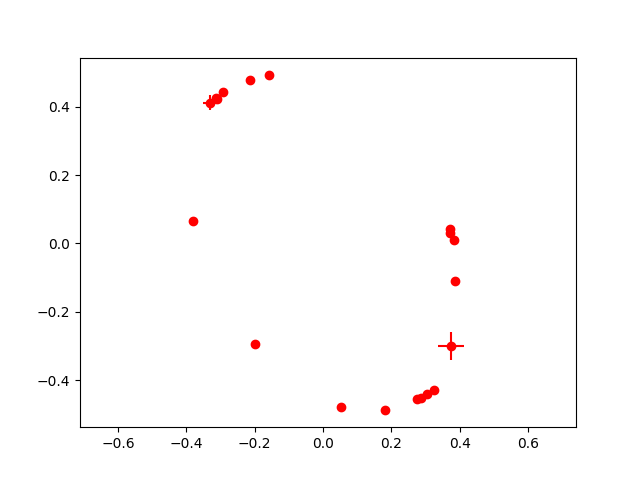
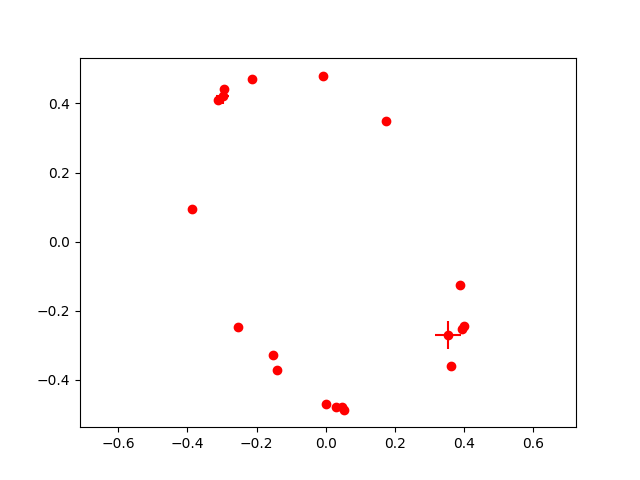
Fixed photo offset

diff --git a/src/mm_likelihood.py b/src/mm_likelihood.py
@@ -336,14 +336,22 @@ def mm_chisquare(paramdf, obsdf, runprops, geo_obj_pos, gensynth = False):
         #bright_ratios = albedo_ratio*density_ratios
         bright_ratio = albedo_ratio*density_ratio
 
-        rel_pos_lat = Model_DeltaLat[1,:]
-        rel_pos_long = Model_DeltaLong[1,:]
+        rel_pos_lat = Model_DeltaLat[0,:]
+        rel_pos_long = Model_DeltaLong[0,:]
         #print(rel_pos_long)
         #print(bright_ratio)
         delta_offset_lat = bright_ratio*rel_pos_lat
         delta_offset_long = bright_ratio*rel_pos_long
+        
+        #print('Model_DeltaLat before: ', Model_DeltaLat)
+        #print('Model_DeltaLong before: ', Model_DeltaLong)
         Model_DeltaLat = Model_DeltaLat - delta_offset_lat
         Model_DeltaLong = Model_DeltaLong - delta_offset_long
+        
+        #print('Model_DeltaLat after: ', Model_DeltaLat)
+        #print('Model_DeltaLong after: ', Model_DeltaLong)
+        
+    
     
     if runprops.get("com_offset"):
         Model_DeltaLong = Model_DeltaLong + paramdf["long_offset"].iloc[0]
